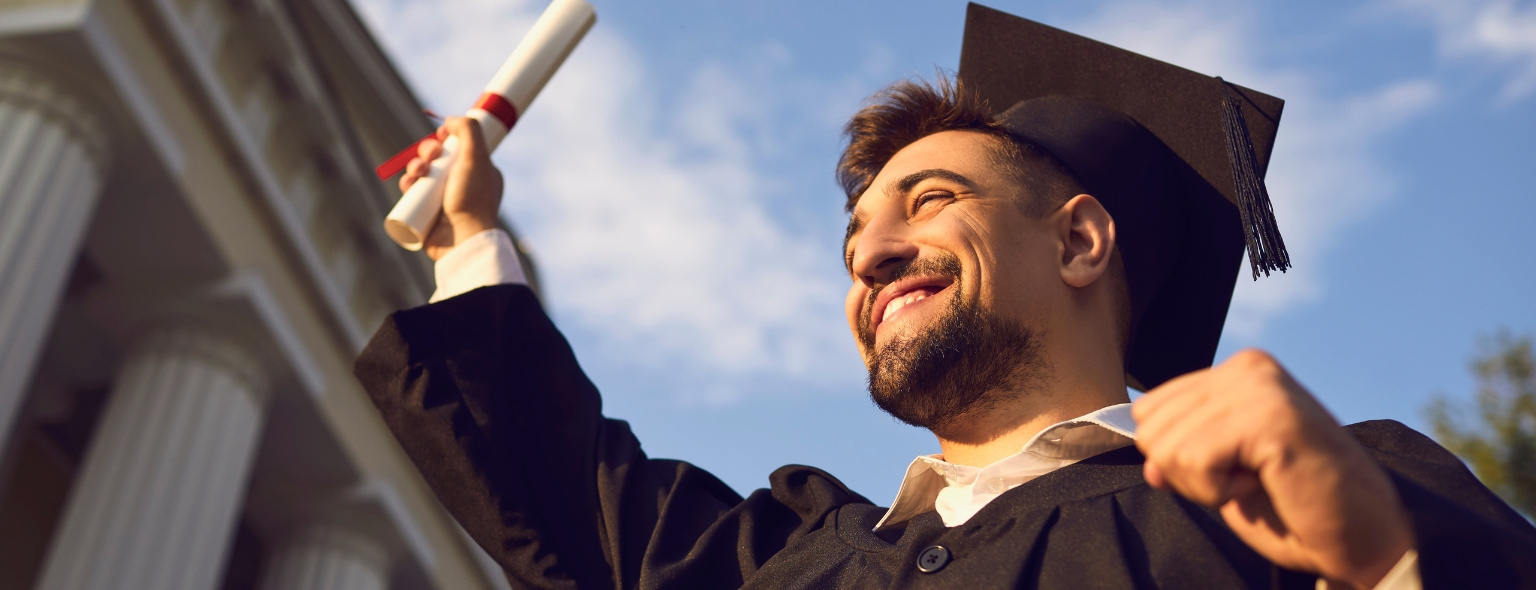
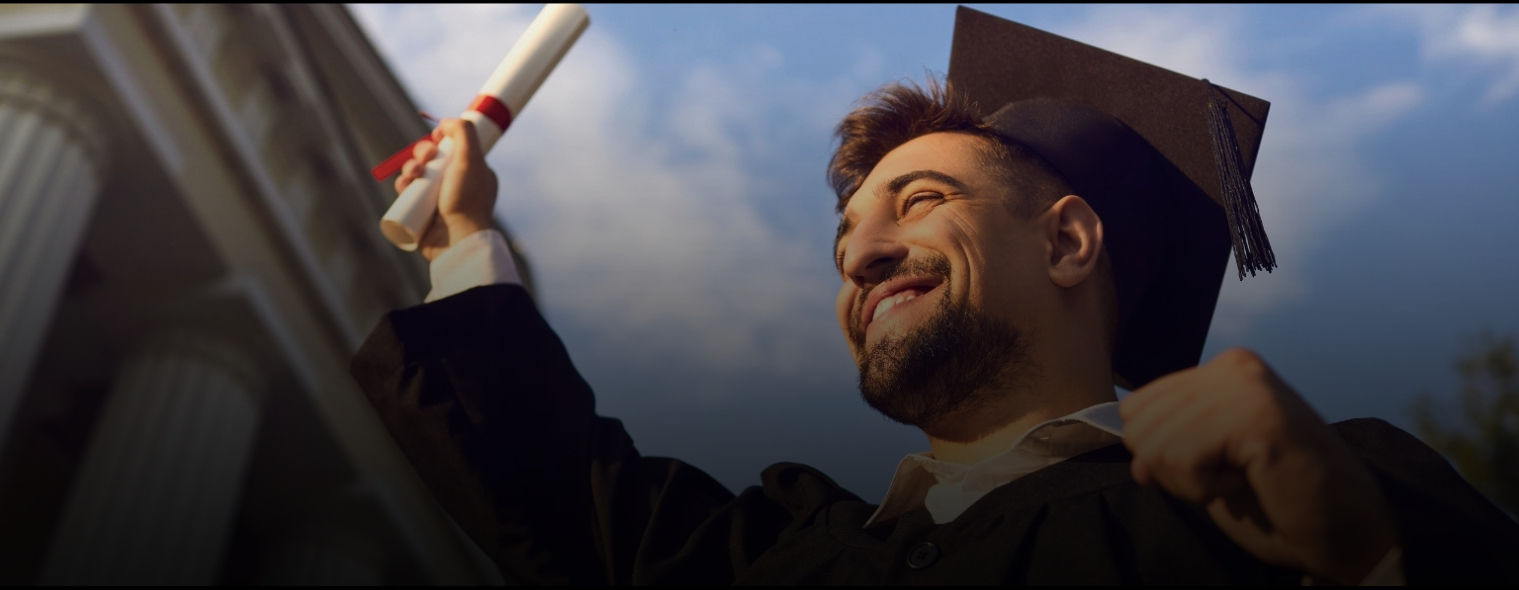
a

diff --git a/style/custom.css b/style/custom.css
@@ -180,9 +180,9 @@
     background-size: cover;
     background-position: center;
     background-image: url(../images/banner-home.jpg);
-    background-color: rgba(0, 0, 0, 0.20) !important;
+    /*background-color: rgba(0, 0, 0, 0.20) !important;
     background-blend-mode: soft-light;
-    box-shadow: 0px 7px 7px rgba(0, 0, 0, 0.25);
+    box-shadow: 0px 7px 7px rgba(0, 0, 0, 0.25);*/
 }
 
 .info-banner {
